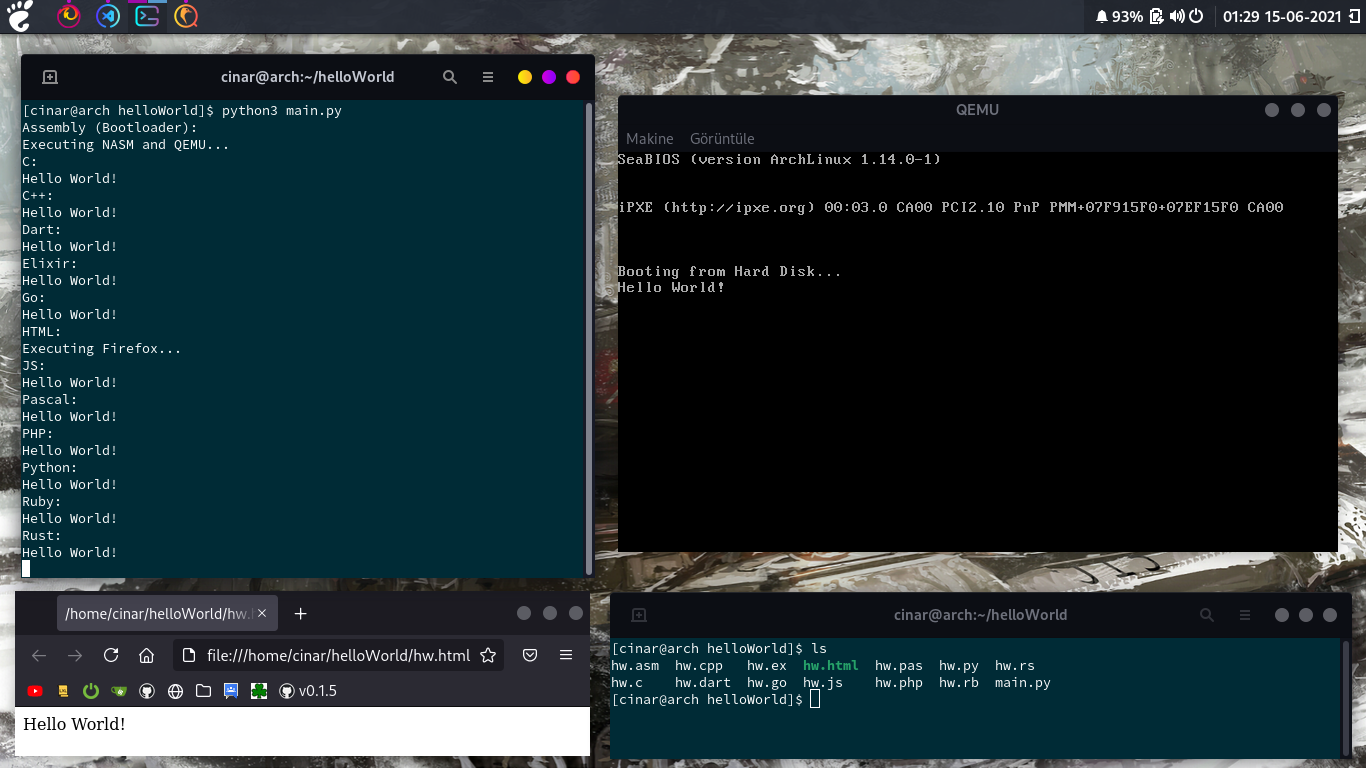
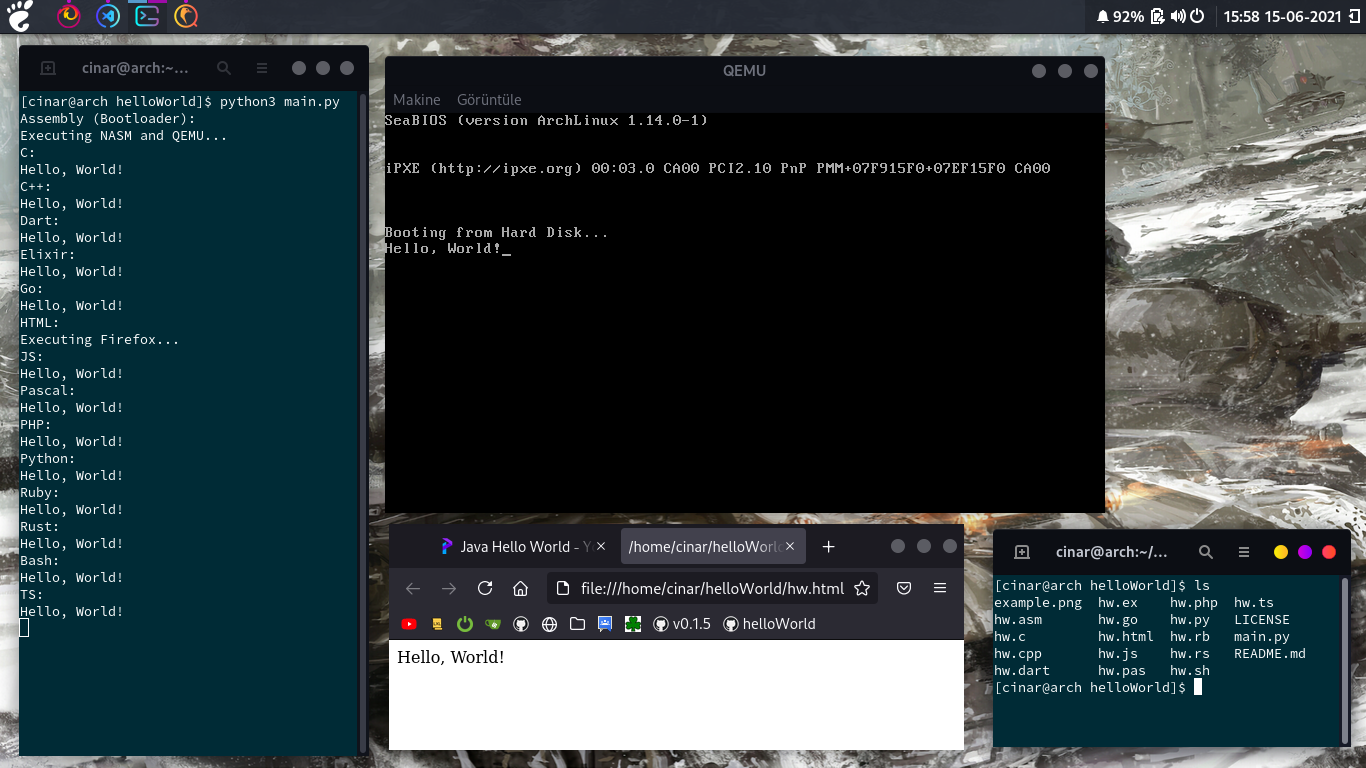
Added comma, and new screenshot.

diff --git a/hw.dart b/hw.dart
@@ -1,3 +1,3 @@
 void main(){
-    print("Hello World!");
+    print("Hello, World!");
 }

diff --git a/hw.js b/hw.js
@@ -1,1 +1,1 @@
-console.log("Hello World!");
+console.log("Hello, World!");

diff --git a/hw.ts b/hw.ts
@@ -1,1 +1,1 @@
-console.log("Hello World!");
+console.log("Hello, World!");

diff --git a/hw.html b/hw.html
@@ -1,1 +1,1 @@
-<p>Hello World!</p>
+<p>Hello, World!</p>

diff --git a/main.py b/main.py
@@ -33,4 +33,4 @@ print("TS:")
 s("ts-node hw.ts")
 s("rm *_* *.bin *.o")
 ##Uncomment for cool screenshots.
-s("sleep 1000")
+#s("sleep 1000")

diff --git a/hw.cpp b/hw.cpp
@@ -1,5 +1,5 @@
 #include <iostream>
 int main(){
-    std::cout << "Hello World!\n";
+    std::cout << "Hello, World!\n";
     return 0;
 }

diff --git a/hw.go b/hw.go
@@ -3,5 +3,5 @@ package main
 import "fmt"
 
 func main() {
-    fmt.Println("Hello World!")
+    fmt.Println("Hello, World!")
 }

diff --git a/hw.c b/hw.c
@@ -1,5 +1,5 @@
 #include <stdio.h>
 int main() {
-   printf("Hello World!\n");
+   printf("Hello, World!\n");
    return 0;
 }

diff --git a/hw.rs b/hw.rs
@@ -1,3 +1,3 @@
 fn main() {
-    println!("Hello World!");
+    println!("Hello, World!");
 }

diff --git a/hw.php b/hw.php
@@ -1,3 +1,3 @@
 <?php
-echo "Hello World!\n";
+echo "Hello, World!\n";
 ?>

diff --git a/hw.py b/hw.py
@@ -1,1 +1,1 @@
-print("Hello World!")
+print("Hello, World!")

diff --git a/hw.rb b/hw.rb
@@ -1,1 +1,1 @@
-puts 'Hello World!'
+puts 'Hello, World!'
